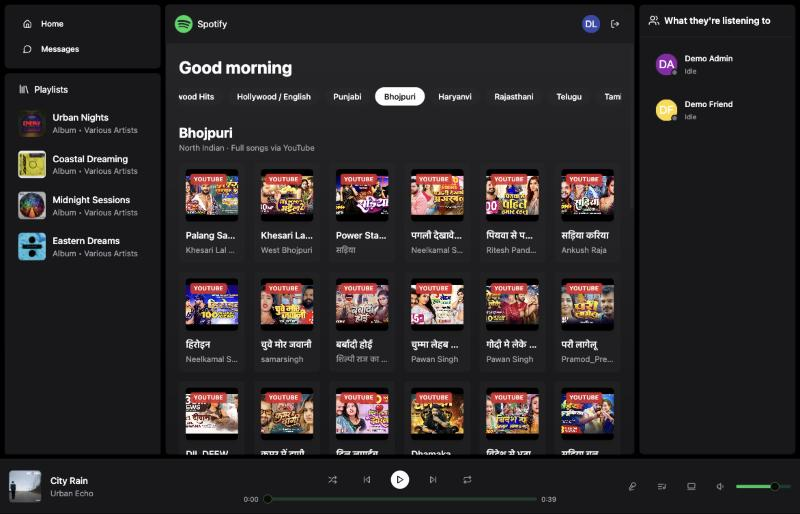
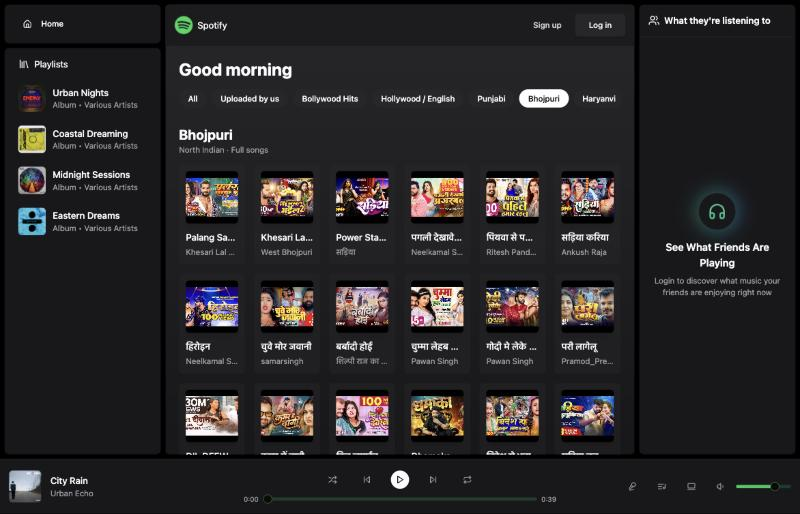
Remove YouTube labels from the UI
- Drop the YOUTUBE badge from song cards and the player bar
- Drop the "Playing via YouTube" caption on the mini player (player itself
  stays visible, as YouTube's terms require)
- Category subtitle no longer mentions YouTube
- Update system-flow.md and its screenshots

diff --git a/frontend/src/layout/components/PlaybackControls.tsx b/frontend/src/layout/components/PlaybackControls.tsx
@@ -3,7 +3,6 @@ import { Slider } from "@/components/ui/slider";
 import { usePlayerStore } from "@/stores/usePlayerStore";
 import { Laptop2, ListMusic, Mic2, Pause, Play, Repeat, Shuffle, SkipBack, SkipForward, Volume1 } from "lucide-react";
 import { useEffect, useState } from "react";
-import SourceBadge from "@/components/SourceBadge";
 import { playerEngine } from "@/lib/playerEngine";
 
 const formatTime = (seconds: number) => {
@@ -48,11 +47,8 @@ export const PlaybackControls = () => {
 								className='w-14 h-14 object-cover rounded-md'
 							/>
 							<div className='flex-1 min-w-0'>
-								<div className='flex items-center gap-2'>
-									<span className='font-medium truncate hover:underline cursor-pointer'>
-										{currentSong.title}
-									</span>
-									{currentSong.source && <SourceBadge />}
+								<div className='font-medium truncate hover:underline cursor-pointer'>
+									{currentSong.title}
 								</div>
 								<div className='text-sm text-zinc-400 truncate hover:underline cursor-pointer'>
 									{currentSong.artist}

diff --git a/frontend/src/layout/components/YouTubePlayer.tsx b/frontend/src/layout/components/YouTubePlayer.tsx
@@ -99,16 +99,13 @@ const YouTubePlayer = () => {
 				youtubeId ? "" : "pointer-events-none invisible"
 			} ${minimized ? "w-[200px] h-[200px] opacity-90" : "w-[280px] h-[200px]"}`}
 		>
-			<div className='absolute top-0 inset-x-0 z-10 flex items-center justify-between bg-gradient-to-b from-black/80 to-transparent px-2 py-1 text-[11px] text-zinc-300'>
-				<span>Playing via YouTube</span>
-				<button
-					onClick={() => setMinimized((m) => !m)}
-					className='rounded p-0.5 hover:bg-white/10'
-					title={minimized ? "Expand" : "Shrink"}
-				>
-					{minimized ? <Maximize2 className='size-3' /> : <Minimize2 className='size-3' />}
-				</button>
-			</div>
+			<button
+				onClick={() => setMinimized((m) => !m)}
+				className='absolute top-1 right-1 z-10 rounded bg-black/60 p-1 text-zinc-300 hover:bg-black/80'
+				title={minimized ? "Expand" : "Shrink"}
+			>
+				{minimized ? <Maximize2 className='size-3' /> : <Minimize2 className='size-3' />}
+			</button>
 			<div ref={containerRef} />
 		</div>
 	);

diff --git a/frontend/src/pages/home/components/SectionGrid.tsx b/frontend/src/pages/home/components/SectionGrid.tsx
@@ -2,7 +2,6 @@ import { Song } from "@/types";
 import SectionGridSkeleton from "./SectionGridSkeleton";
 import { Button } from "@/components/ui/button";
 import PlayButton from "./PlayButton";
-import SourceBadge from "@/components/SourceBadge";
 
 type SectionGridProps = {
 	title: string;
@@ -48,7 +47,6 @@ const SectionGrid = ({ songs, title, isLoading, subtitle, limit, onShowAll }: Se
 									group-hover:scale-105'
 								/>
 							</div>
-							{song.source && <SourceBadge className='absolute top-2 left-2' />}
 							<PlayButton song={song} queue={songs} />
 						</div>
 						<h3 className='font-medium mb-1 truncate'>{song.title}</h3>

diff --git a/frontend/src/pages/home/HomePage.tsx b/frontend/src/pages/home/HomePage.tsx
@@ -79,7 +79,7 @@ const HomePage = () => {
 			return (
 				<SectionGrid
 					title={row?.name || "Songs"}
-					subtitle={`${row?.group ?? ""} · Full songs via YouTube`}
+					subtitle={`${row?.group ?? ""} · Full songs`}
 					songs={categorySongs[active] || row?.songs || []}
 					isLoading={loadingCategory === active && !row}
 				/>

diff --git a/system-flow.md b/system-flow.md
@@ -12,7 +12,7 @@ Songs come from two sources:
 | Source | Shown as | Plays | Managed by |
 |---|---|---|---|
 | **Our uploads** | "Uploaded by us" row / chip | Full length from our private **AWS S3** bucket | Admin (this guide, Part 2) |
-| **YouTube catalog** | 14 category rows (Bollywood, Hollywood, Punjabi, Bhojpuri, Telugu, …) with a red **YOUTUBE** badge | Full length through YouTube's official embedded player | Automatic — refreshed every 24h from the YouTube Data API |
+| **YouTube catalog** | 14 category rows (Bollywood, Hollywood, Punjabi, Bhojpuri, Telugu, …) | Full length through YouTube's official embedded player | Automatic — refreshed every 24h from the YouTube Data API |
 
 For architecture details see [system-design.md](system-design.md).
 
@@ -97,7 +97,7 @@ Click any chip (e.g. **Bhojpuri**) or **Show all** on a row to see the full cate
 ### Step 6 — Play a song
 
 Hover a card and click the green **▶** button.
-- **YouTube songs** play full length in the **mini player** (bottom-left, "Playing via YouTube"). YouTube requires this player to stay visible; use the ⤡ icon to shrink it.
+- **YouTube songs** play full length in the small video **mini player** at the bottom left. YouTube requires this player to stay visible; use the ⤡ icon in its corner to shrink it.
 - **Our uploads** play directly in the bottom bar (no video).
 - The bottom bar works for both: play / pause, previous / next (moves through the row you played from), seek and volume. When a song ends the next one starts automatically.
 
